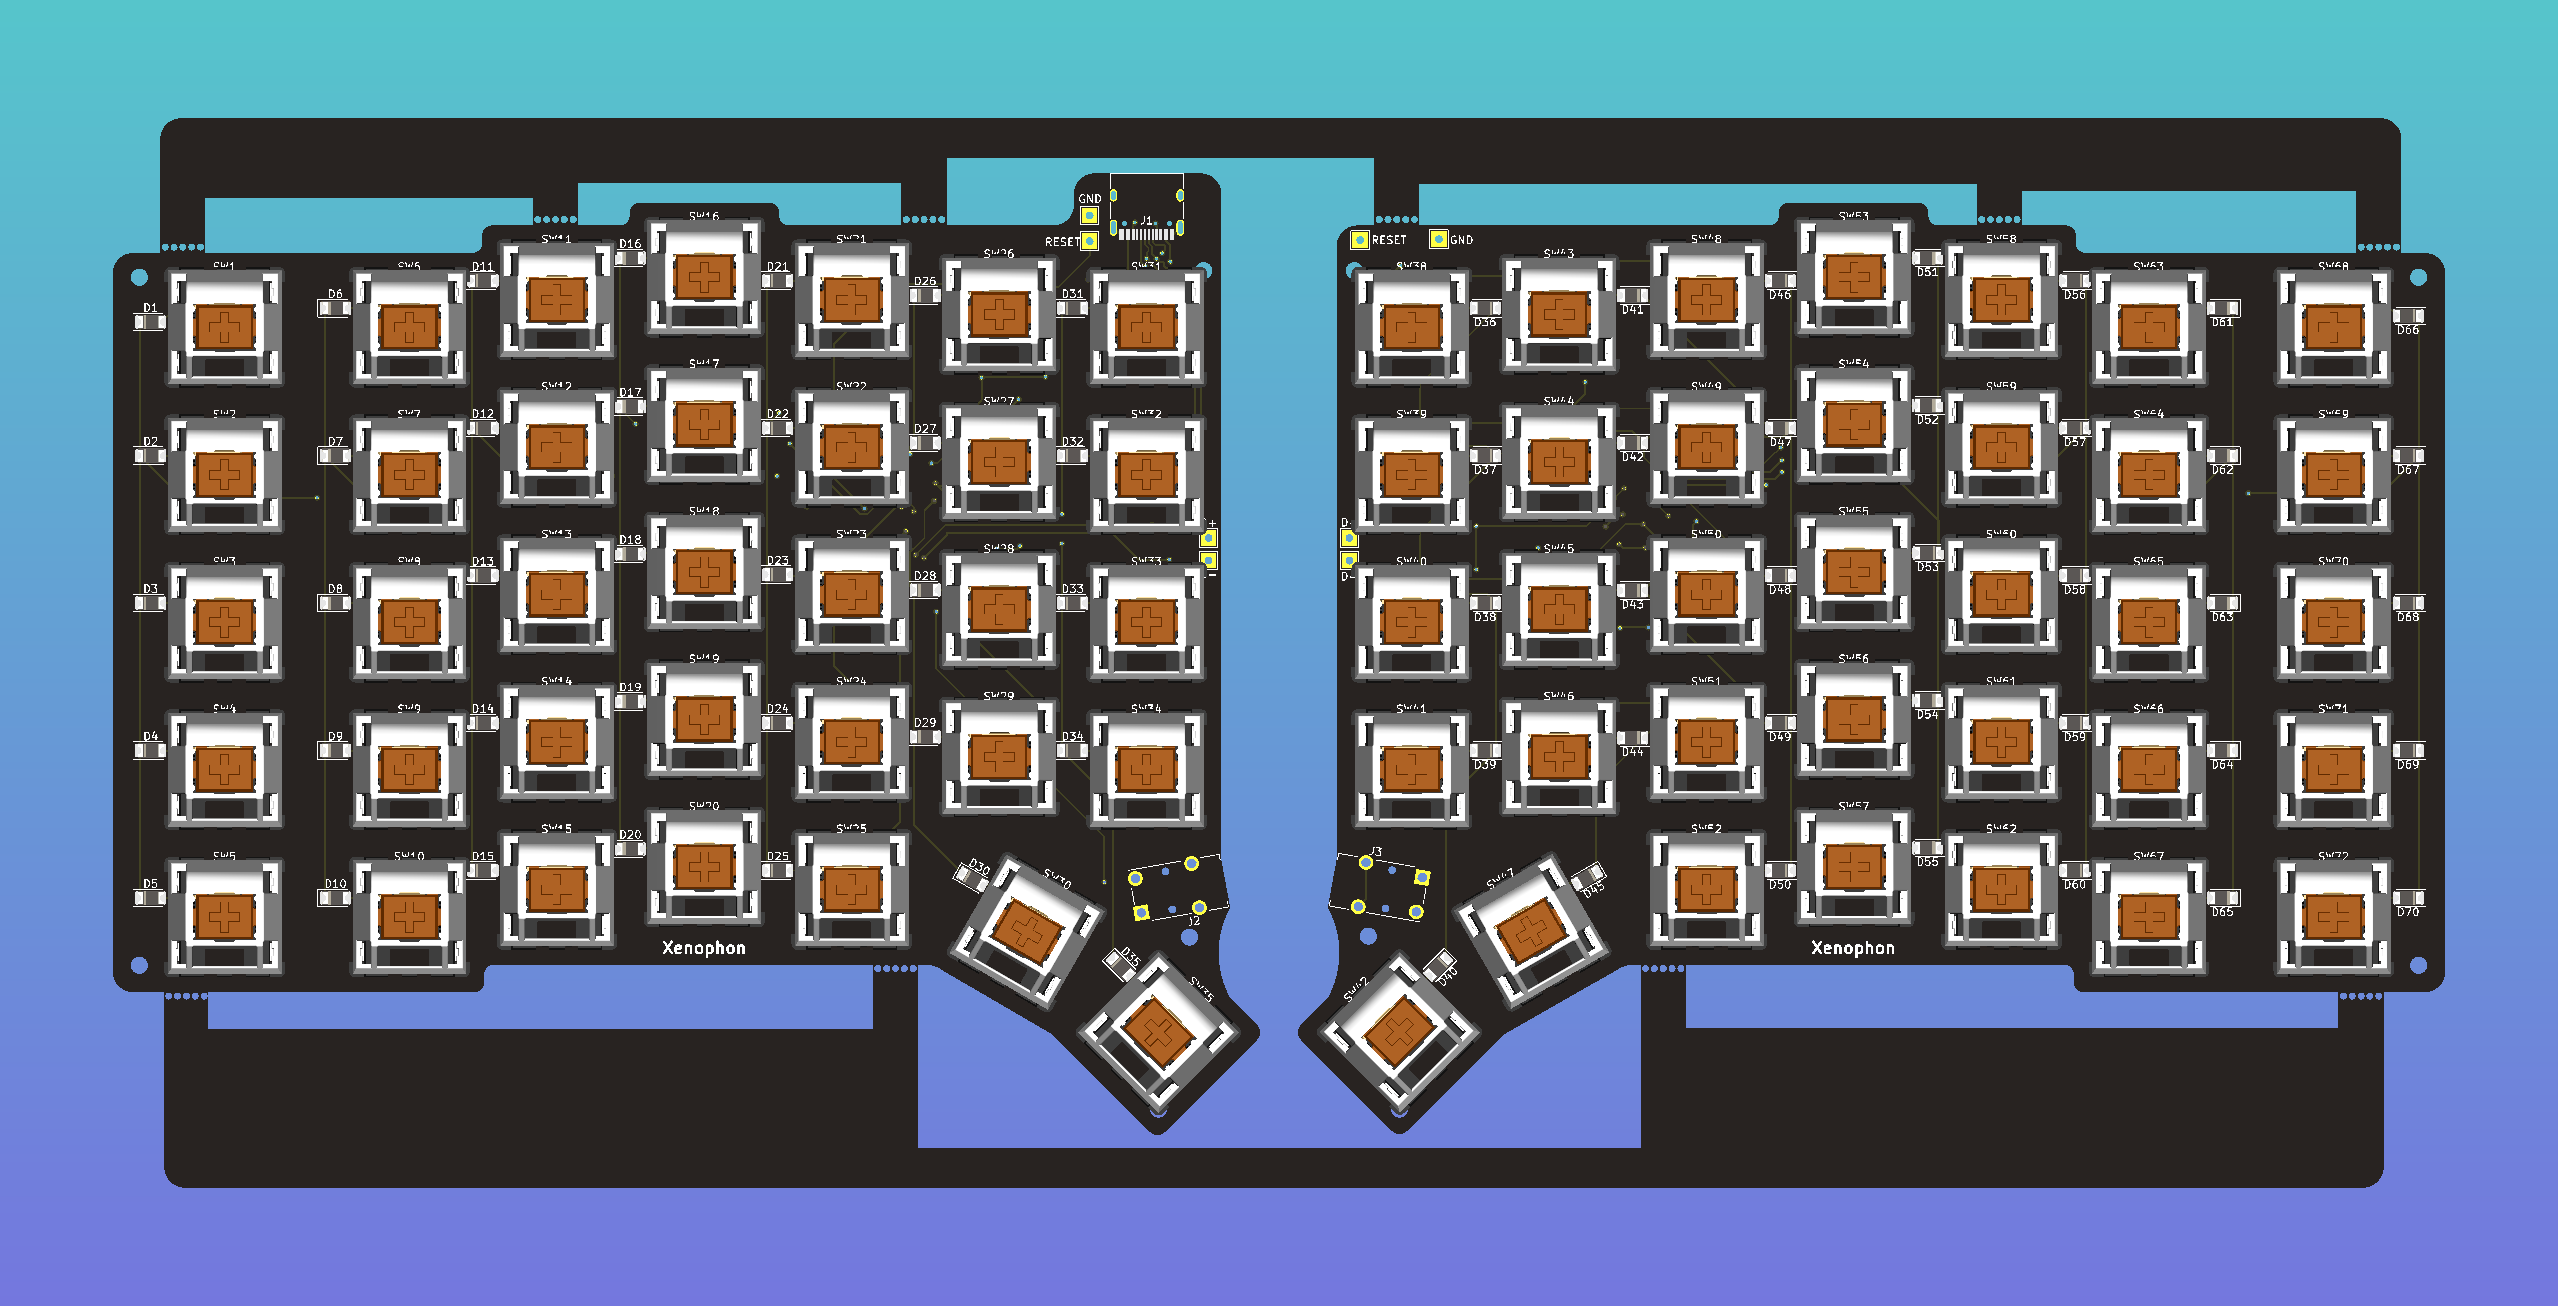
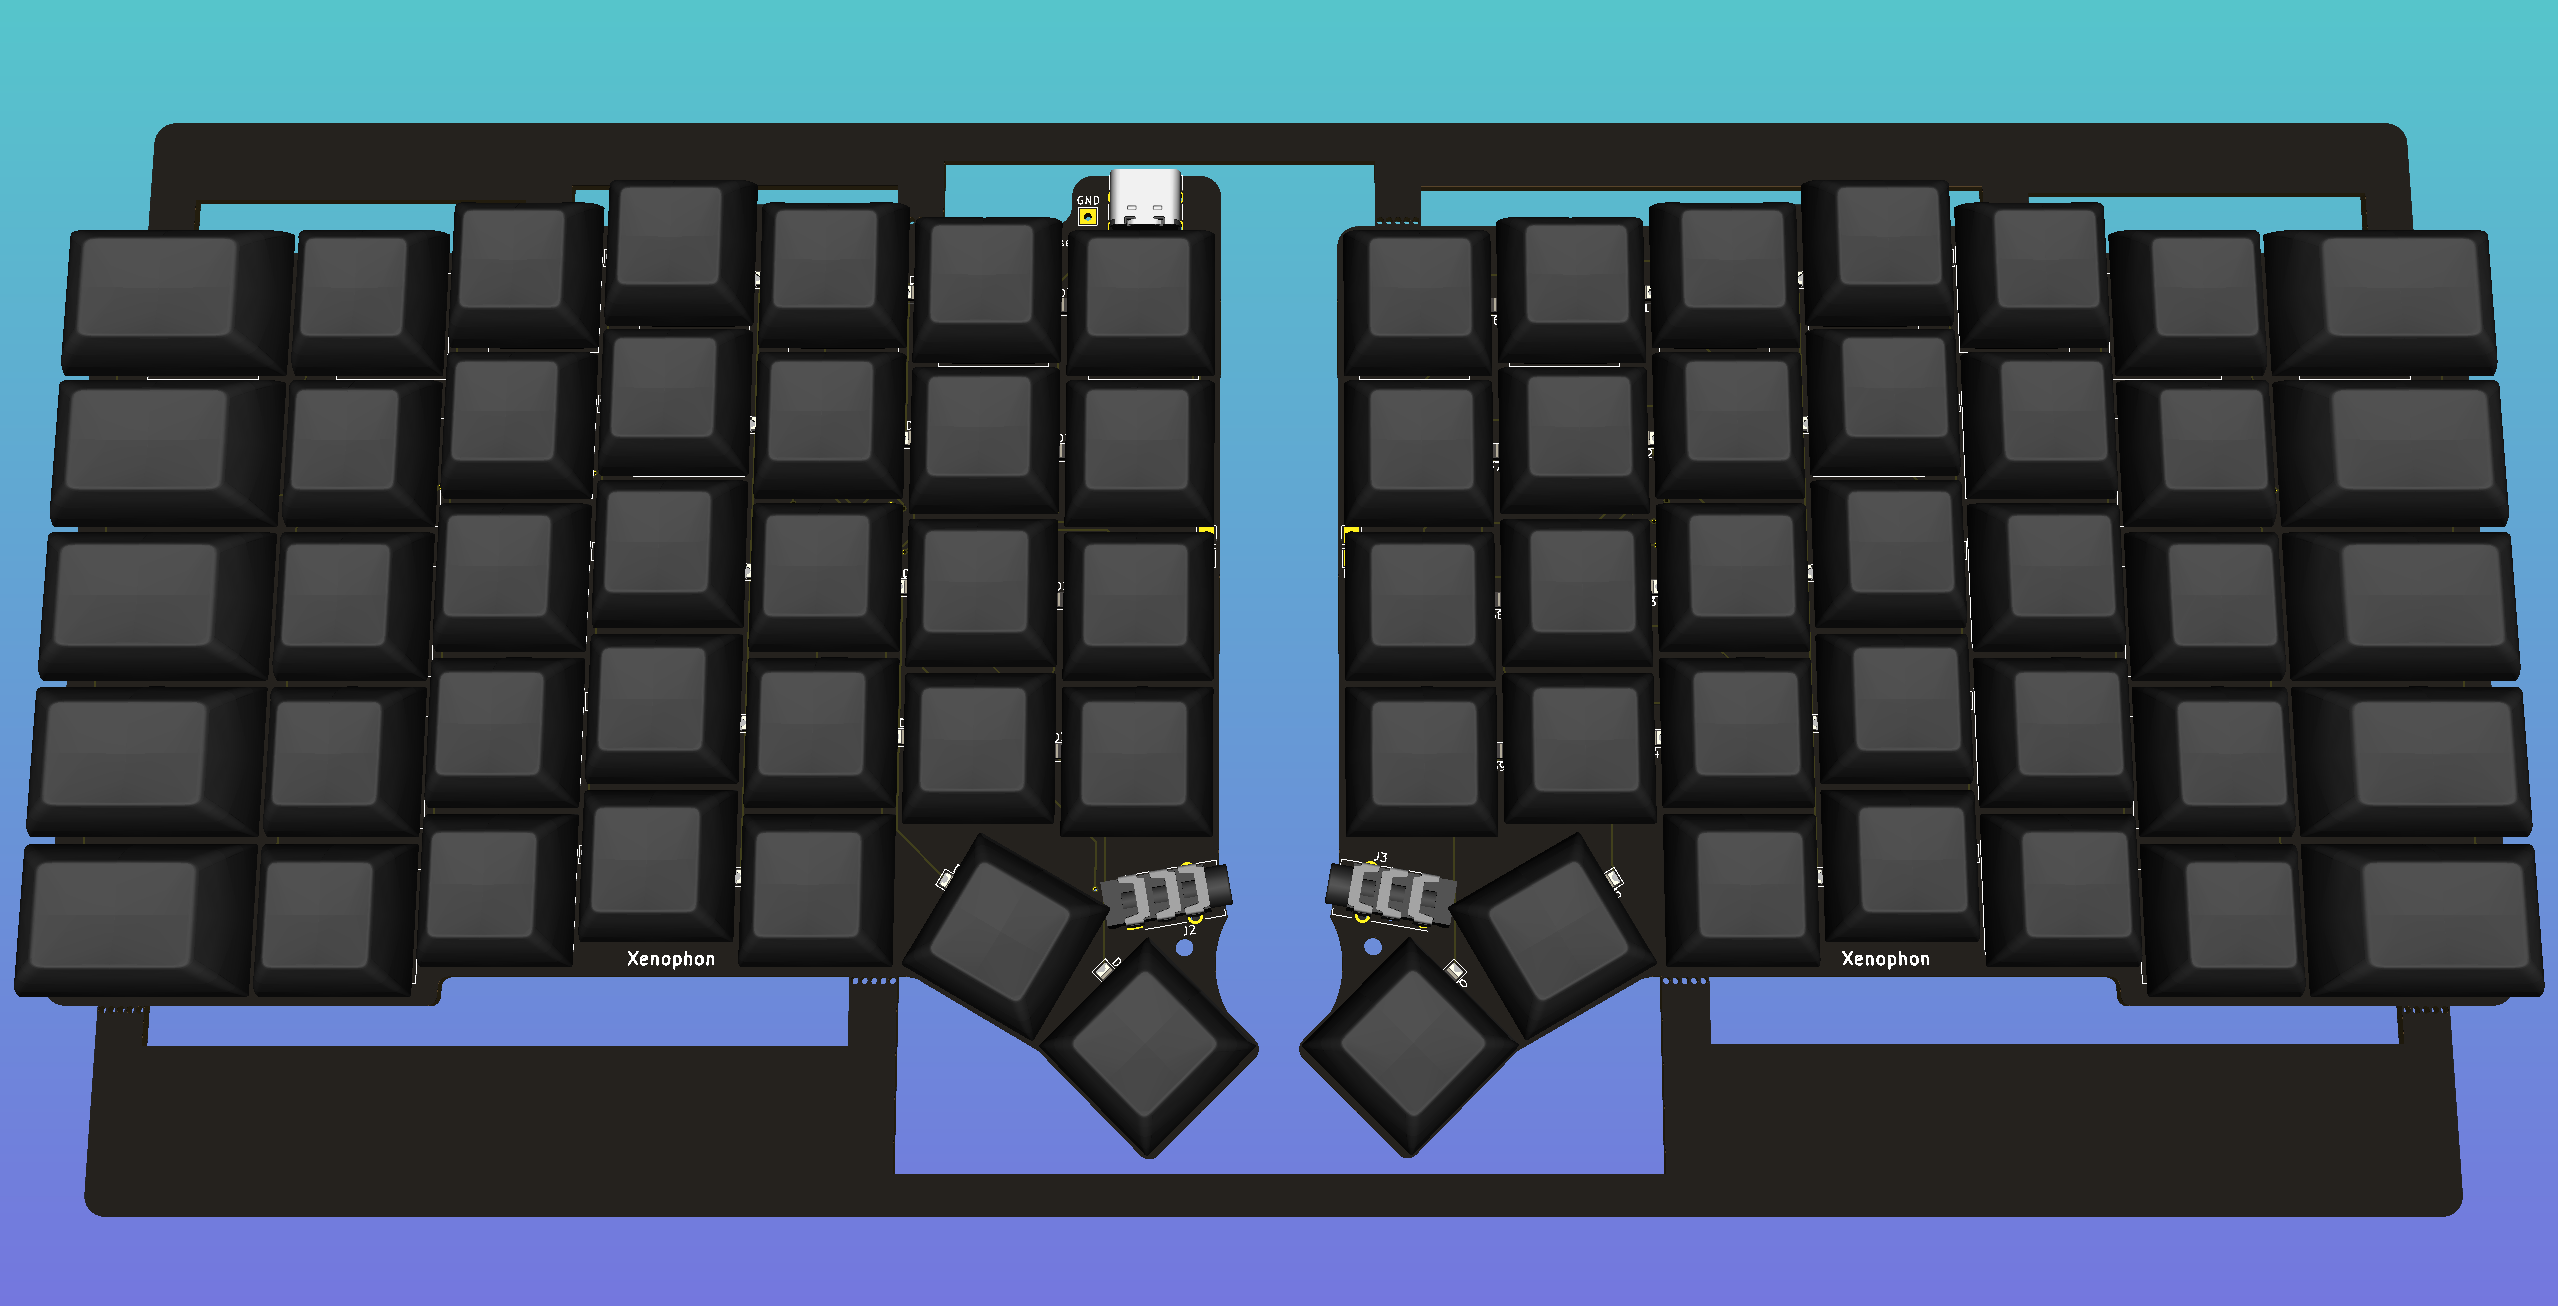
v1

diff --git a/src/content/Scroll.js b/src/content/Scroll.js
@@ -1,27 +1,35 @@
 import '../css/Scroll.css'
 import bigImage from '../images/xenophon.png'
-import bigImage2 from '../images/xenophon_bak.png'
+import bigImageNo3D from '../images/xenophon_no3d.png'
+import bigImageBack from '../images/xenophon_back.png'
 import useWindowDimensions from '../functions/useWindowDimensions';
+import { useState } from 'react';
 
 function Scroll () { 
 
   const { width } = useWindowDimensions();
+  const [imageSrc, setImageSrc] = useState(bigImage);
 
-  var imageOne = true;
+  function setImage () {
 
-  function getImage(){
-    if (imageOne){
-      return(bigImage)
-    } else {
-      return(bigImage2)
+    if (imageSrc === bigImage){
+      setImageSrc(bigImageNo3D)
+    } else if (imageSrc === bigImageNo3D) {
+      setImageSrc(bigImageBack)
+    } else if (imageSrc === bigImageBack) {
+      setImageSrc(bigImage)
     }
+
   }
 
   return (
     <div class='container' >
-      <img src={getImage()} alt="bigImage" style={{width: "100%"}}/>
-      <div className='text-on-image'>
+      <img src={imageSrc} onClick={setImage} alt="bigImage" style={{width: "100%"}}/>
+      <div className='text-on-top-image'>
         <h1 class='text' style={{fontSize: width/9}}>Xenophon</h1>
+      </div>
+      <div className='text-on-bottom-image'>
+        <h1 class='slogan' style={{fontSize: width/25}}>A ergonomic split Keyboard</h1>
       </div>
     </div>
   )

diff --git a/src/content/Info.js b/src/content/Info.js
@@ -1,17 +1,23 @@
 import '../css/General.css'
+import '../css/Info.css'
 import leftSide from '../images/leftKeys.png'
+import rightSide from '../images/rightKeys.png'
 
-function Info () {
+function Info (props) {
 
   return (
-    <div className='container' >
-      <div className='fixed' >
-        <img src={leftSide} alt="bigImage" style={{width: "82%"}}/>
+    <div>
+      <div className='info-box'>
+        <h1 style={{fontSize: "60px"}} >Keymap</h1>
+        <h2 style={{fontSize: "30px"}} >Feutures a Swedish layout</h2>
       </div>
-      <div className='flex-item' >
-        <h1 class='info-text' >Features an</h1>
-        <h1 class='info-text' >Ortholinear design</h1>
-        <h2 class='info-text' >Ergonomic!</h2>
+      <div className='container' style={{paddingTop: "20px"}} >
+        <div className='fixed'>
+          <img src={leftSide} alt="asdf" style={{width: "85%"}}/>
+        </div>
+        <div className='flex-item' >
+          <img src={rightSide} alt="adfasdf" style={{width: "85%"}}/>
+        </div>
       </div>
     </div>
   )

diff --git a/src/css/Scroll.css b/src/css/Scroll.css
@@ -5,9 +5,16 @@
   background-color: #7477de;
 }
 
-.text-on-image {
+.text-on-top-image {
   position: absolute;
   top: 0;
+  left: 50%;
+  transform: translate(-50%, -50%);
+}
+
+.text-on-bottom-image {
+  position: absolute;
+  bottom: 0;
   left: 50%;
   transform: translate(-50%, -50%);
 }
@@ -17,4 +24,11 @@
   font-family: Ubuntu Mono;
   color: #7477de;
   text-shadow: -1px -1px 0 #56c5cb, 1px -1px 0 #56c5cb, -1px 1px 0 #56c5cb, 1px 1px 0 #56c5cb;
+}
+
+.slogan {
+  text-align: center;
+  font-family: 'Dongle';
+  color: #56c5cb;
+  text-shadow: -1px -1px 0 #7477de, 1px -1px 0 #7477de, -1px 1px 0 #7477de, 1px 1px 0 #7477de;
 }

diff --git a/public/index.html b/public/index.html
@@ -4,6 +4,9 @@
     <meta charset="utf-8" />
     <link rel="icon" href="%PUBLIC_URL%/favicon.ico" />
     <link rel="stylesheet" type="text/css" href="//fonts.googleapis.com/css?family=Ubuntu+Mono" />
+    <link rel="preconnect" href="https://fonts.googleapis.com">
+    <link rel="preconnect" href="https://fonts.gstatic.com" crossorigin>
+    <link href="https://fonts.googleapis.com/css2?family=Dongle:wght@300&display=swap" rel="stylesheet"> 
     <meta name="viewport" content="width=device-width, initial-scale=1" />
     <meta name="theme-color" content="#000000" />
     <meta

diff --git a/src/css/General.css b/src/css/General.css
@@ -1,8 +1,8 @@
 
 * {
   text-align: center;
-  font-family: Ubuntu Mono;
-  color: black;
+  font-family: 'Dongle';
+  color: #7477de;
 }
 
 h1 {
@@ -14,6 +14,14 @@ h1 {
 
 p {
   font-size: 24px;
+}
+
+.info-box {
+  background-color: #56c5cb;
+  text-shadow: -1px -1px 0 #56c5cb, 1px -1px 0 #56c5cb, -1px 1px 0 #56c5cb, 1px 1px 0 #56c5cb;
+  border-radius: 20px;
+  width: 90%;
+  margin: 0 auto;
 }
 
 .container {

diff --git a/src/css/Info.css b/src/css/Info.css
@@ -1,20 +1,7 @@
 
-.info-window {
-  overflow: hidden;
-}
-
-.window-left {
-  float: left;
-}
-
-.window-right {
-  overflow: hidden;
-}
-
-
 .info-text {
   text-align: center;
-  font-family: Ubuntu Mono;
+  font-family: 'Dongle';
   color: #56c5cb;
   text-shadow: -1px -1px 0 #7477de, 1px -1px 0 #7477de, -1px 1px 0 #7477de, 1px 1px 0 #7477de;
 }

diff --git a/README.md b/README.md
@@ -1,70 +1,5 @@
-# Getting Started with Create React App
+# Xenophon Website
 
-This project was bootstrapped with [Create React App](https://github.com/facebook/create-react-app).
+Xenophon is a split keyboard with a design based on the ErgoDox EZ but for less keys for the thumps and another layout for the side keys.
 
-## Available Scripts
-
-In the project directory, you can run:
-
-### `yarn start`
-
-Runs the app in the development mode.\
-Open [http://localhost:3000](http://localhost:3000) to view it in the browser.
-
-The page will reload if you make edits.\
-You will also see any lint errors in the console.
-
-### `yarn test`
-
-Launches the test runner in the interactive watch mode.\
-See the section about [running tests](https://facebook.github.io/create-react-app/docs/running-tests) for more information.
-
-### `yarn build`
-
-Builds the app for production to the `build` folder.\
-It correctly bundles React in production mode and optimizes the build for the best performance.
-
-The build is minified and the filenames include the hashes.\
-Your app is ready to be deployed!
-
-See the section about [deployment](https://facebook.github.io/create-react-app/docs/deployment) for more information.
-
-### `yarn eject`
-
-**Note: this is a one-way operation. Once you `eject`, you can’t go back!**
-
-If you aren’t satisfied with the build tool and configuration choices, you can `eject` at any time. This command will remove the single build dependency from your project.
-
-Instead, it will copy all the configuration files and the transitive dependencies (webpack, Babel, ESLint, etc) right into your project so you have full control over them. All of the commands except `eject` will still work, but they will point to the copied scripts so you can tweak them. At this point you’re on your own.
-
-You don’t have to ever use `eject`. The curated feature set is suitable for small and middle deployments, and you shouldn’t feel obligated to use this feature. However we understand that this tool wouldn’t be useful if you couldn’t customize it when you are ready for it.
-
-## Learn More
-
-You can learn more in the [Create React App documentation](https://facebook.github.io/create-react-app/docs/getting-started).
-
-To learn React, check out the [React documentation](https://reactjs.org/).
-
-### Code Splitting
-
-This section has moved here: [https://facebook.github.io/create-react-app/docs/code-splitting](https://facebook.github.io/create-react-app/docs/code-splitting)
-
-### Analyzing the Bundle Size
-
-This section has moved here: [https://facebook.github.io/create-react-app/docs/analyzing-the-bundle-size](https://facebook.github.io/create-react-app/docs/analyzing-the-bundle-size)
-
-### Making a Progressive Web App
-
-This section has moved here: [https://facebook.github.io/create-react-app/docs/making-a-progressive-web-app](https://facebook.github.io/create-react-app/docs/making-a-progressive-web-app)
-
-### Advanced Configuration
-
-This section has moved here: [https://facebook.github.io/create-react-app/docs/advanced-configuration](https://facebook.github.io/create-react-app/docs/advanced-configuration)
-
-### Deployment
-
-This section has moved here: [https://facebook.github.io/create-react-app/docs/deployment](https://facebook.github.io/create-react-app/docs/deployment)
-
-### `yarn build` fails to minify
-
-This section has moved here: [https://facebook.github.io/create-react-app/docs/troubleshooting#npm-run-build-fails-to-minify](https://facebook.github.io/create-react-app/docs/troubleshooting#npm-run-build-fails-to-minify)
+![Alt text](./src/images/xenophon.png?raw=true "The PCB for the keyboard.")
